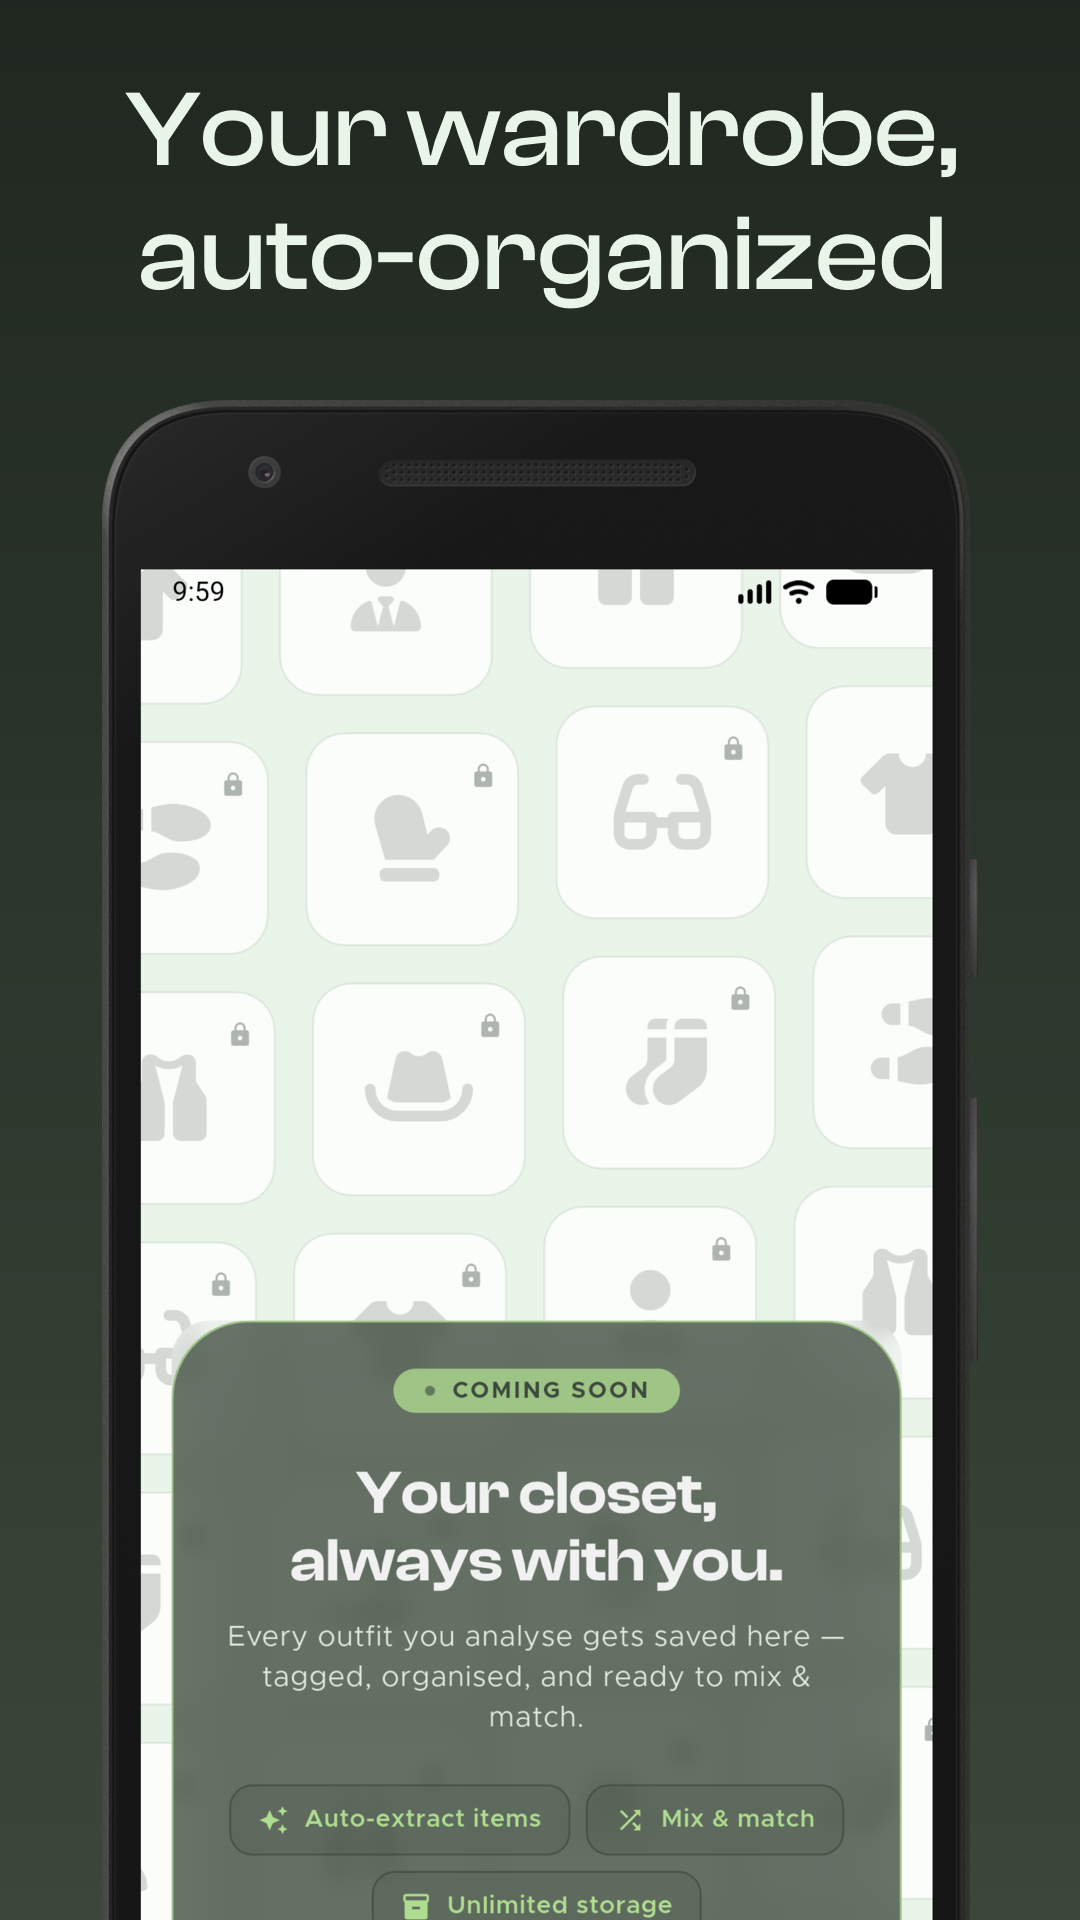
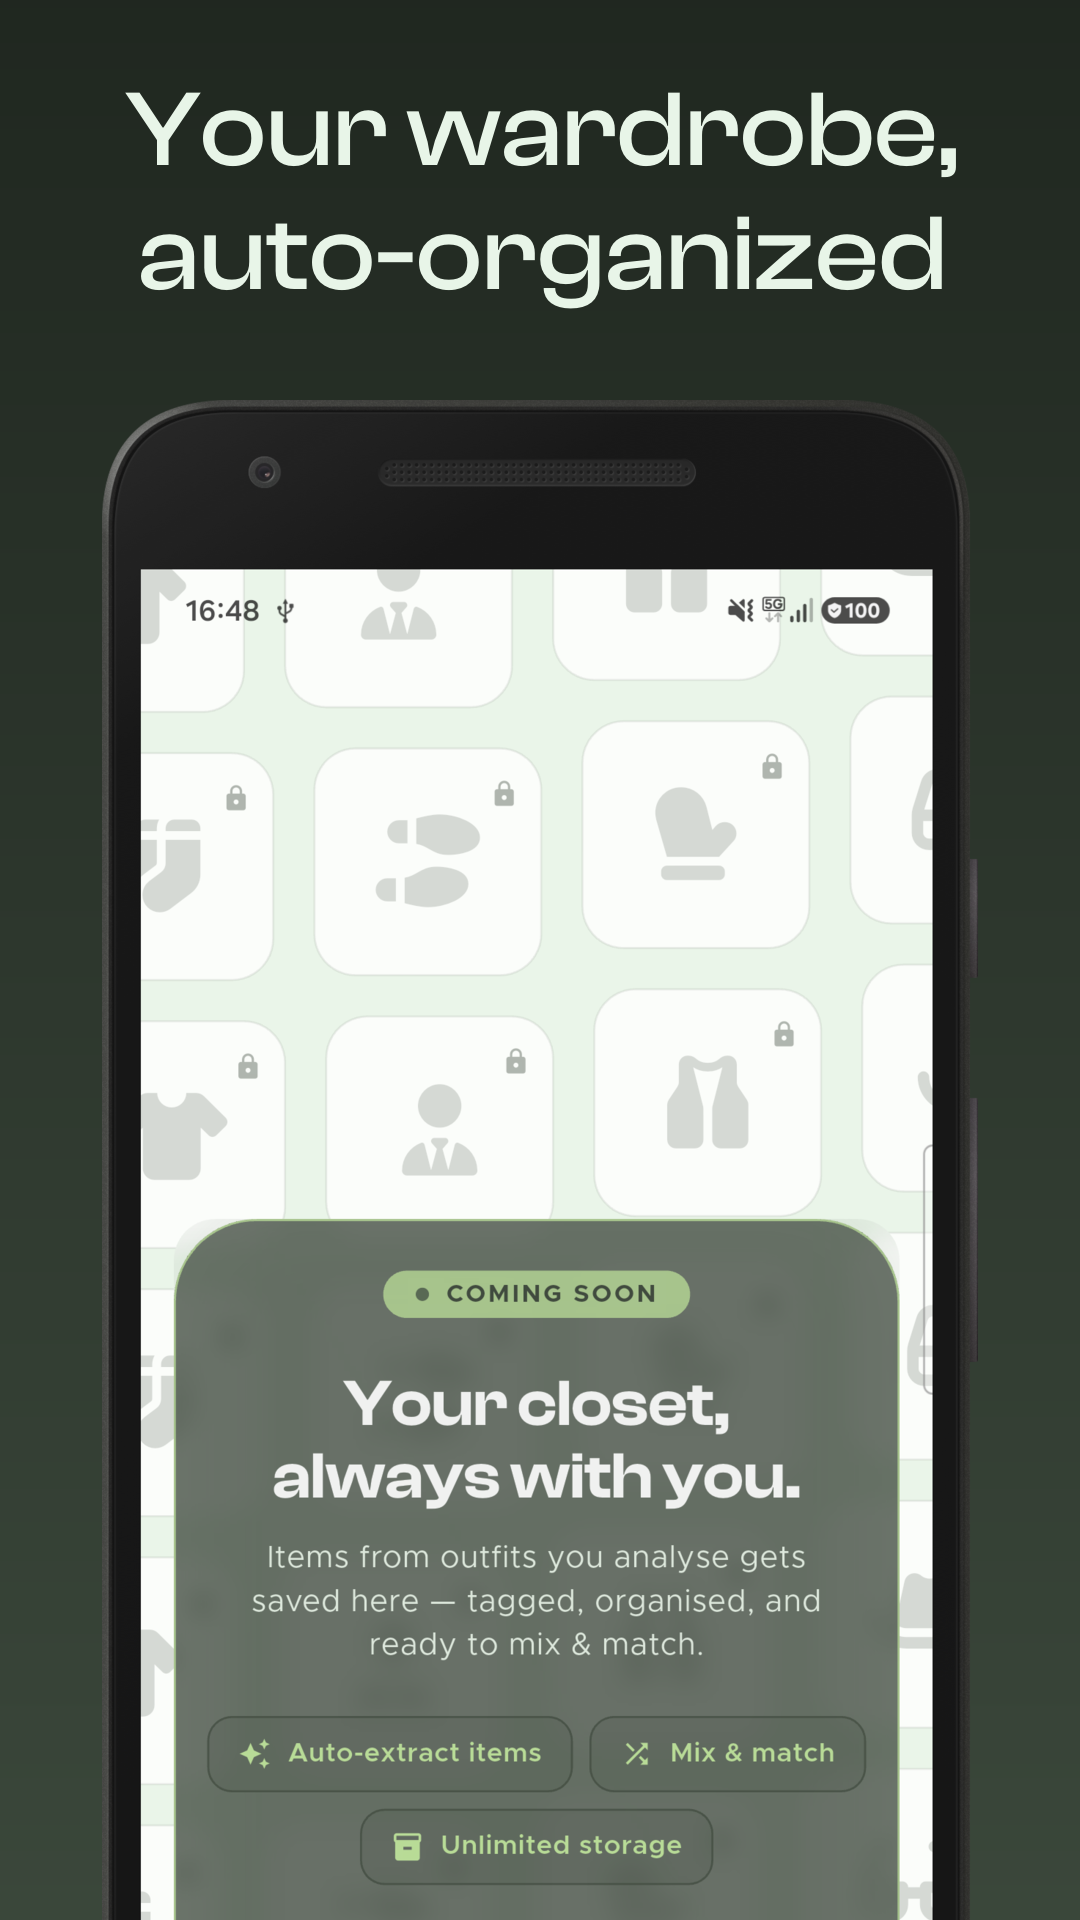
feat: enhance purchase analytics by refactoring properties collection in SubscriptionManager and add session creation tracking in SelectedSessionActions

diff --git a/lib/core/managers/subscription_manager.dart b/lib/core/managers/subscription_manager.dart
@@ -258,17 +258,32 @@ class SubscriptionManager extends ChangeNotifier with WidgetsBindingObserver {
     }
   }
 
+  /// Store list price in the user's store currency, plus PostHog revenue fields.
+  /// [price_usd] is set only when the store currency is already USD — Apple/Google
+  /// do not provide a USD equivalent. Convert other currencies in PostHog
+  /// (`convertCurrency` or Revenue analytics reporting currency).
+  Map<String, Object> _purchaseAnalyticsProperties(Package package) {
+    final product = package.storeProduct;
+    final currency = product.currencyCode.toUpperCase();
+    final price = product.price;
+    return {
+      'package': package.identifier,
+      'package_type': package.packageType.name,
+      'user_id': _currentUserId ?? 'unknown',
+      'price': price,
+      'currency': currency,
+      'revenue': price,
+      'price_string': product.priceString,
+      if (currency == 'USD') 'price_usd': price,
+    };
+  }
+
   Future<bool> purchasePackage(Package package) async {
-    final packageId = package.identifier;
-    final packageType = package.packageType.name;
+    final purchaseProps = _purchaseAnalyticsProperties(package);
 
     await AnalyticsService().capture(
       'purchase_started',
-      properties: {
-        'package': packageId,
-        'package_type': packageType,
-        'user_id': _currentUserId ?? 'unknown',
-      },
+      properties: purchaseProps,
     );
 
     try {
@@ -287,11 +302,7 @@ class SubscriptionManager extends ChangeNotifier with WidgetsBindingObserver {
       if (completed) {
         await AnalyticsService().capture(
           'purchase_completed',
-          properties: {
-            'package': packageId,
-            'package_type': packageType,
-            'user_id': _currentUserId ?? 'unknown',
-          },
+          properties: purchaseProps,
         );
       }
       return completed;
@@ -301,10 +312,8 @@ class SubscriptionManager extends ChangeNotifier with WidgetsBindingObserver {
         await AnalyticsService().capture(
           'purchase_failed',
           properties: {
-            'package': packageId,
-            'package_type': packageType,
+            ...purchaseProps,
             'error_code': e.code,
-            'user_id': _currentUserId ?? 'unknown',
           },
         );
         await AnalyticsService().captureException(

diff --git a/lib/core/managers/style_analysis_session/actions/selected_session_actions.dart b/lib/core/managers/style_analysis_session/actions/selected_session_actions.dart
@@ -401,6 +401,12 @@ mixin SelectedSessionActions {
       String? finalSessionId = id;
       if (isNew) {
         finalSessionId = await create((message) => throw Exception(message));
+        if (finalSessionId != null) {
+          locator<AnalyticsService>().capture(
+            'style_analysis_session_created',
+            properties: {'session_id': finalSessionId},
+          );
+        }
       } else {
         final success = await addMessageRemote(
           UserRole.user,
